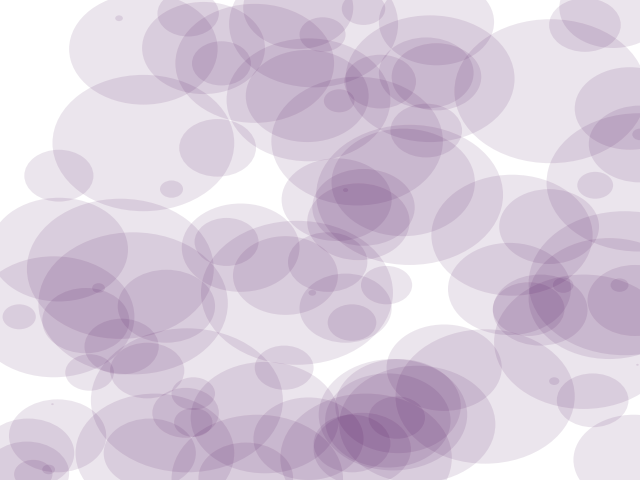
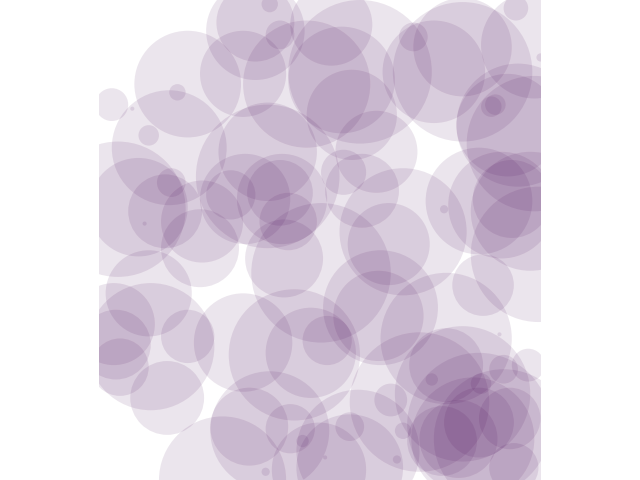
Find difference between both images.

diff --git a/import_image.py b/import_image.py
@@ -7,9 +7,18 @@ import numpy as np
 import random
 
 img_pop = []
-imgArr = np.asarray(Image.open('panda.jpg'))
+imgArr = np.asarray(Image.open('eye.png'))
 WIDTH = len(imgArr)
 HEIGHT = len(imgArr[0])
+
+def fitness(arr, img):
+    total = 0
+
+    for x in range(WIDTH):
+        for y in range(HEIGHT):
+            total = total + abs(arr[x][y] - img[x][y])
+
+    print(total)
 
 def make_circle(x, y, r, op):
     circle = plt.Circle((x, -y), r, color='black', alpha=op)
@@ -19,52 +28,46 @@ def graph_image(circles):
     plt.clf()
     plt.axis((0, WIDTH, 0, -HEIGHT))
     plt.gca().invert_yaxis()
+    #plt.gca().set_aspect('equal', adjustable='box')
+    plt.gca().set_aspect('equal')
     plt.axis('off')
     ax = plt.gca()
 
-    colors = [100]*len(circles)
+    colors = [0]*len(circles)
     c = PatchCollection(circles, alpha=0.1)
     c.set_array(np.array(colors))
     ax.add_collection(c)
     #for c in circles:
     #    ax.add_patch(c)
 
-    #plt.figure(figsize=(5,5))
+    plt.get_current_fig_manager().resize(WIDTH, HEIGHT)
     plt.subplots_adjust(0,0,1,1,0,0)
     plt.ion()
     plt.show()
     plt.pause(.01)
 
-    plt.get_current_fig_manager().resize(500, 500)
     fig = plt.gcf()
     data = np.frombuffer(fig.canvas.tostring_rgb(), dtype=np.uint8)
     print(fig.canvas.get_width_height())
     data = data.reshape(fig.canvas.get_width_height()[::-1] + (3,))
-    img_pop.append(data)
+    print(len(data), len(data[0]))
+    img_pop.append(Image.fromarray(np.uint8(data)))
 
 def init_pop(popSize, individualSize):
     population = []
 
     for j in range(popSize):
         circles = []
+        h = int(HEIGHT*0.15)
 
         for i in range(individualSize):
-            x, y = random.randint(1,WIDTH), random.randint(1, HEIGHT)
-            radius = random.randint(1, HEIGHT*0.15)
+            x, y = random.randint(1, WIDTH), random.randint(1, HEIGHT)
+            radius = random.randint(1, h)
             circles.append(make_circle(x, y, radius, np.random.rand()))
 
         population.append(circles)
 
     return population
-
-def fitness(arr, img):
-    total = 0
-
-    for x in range(480):
-        for y in range(480):
-            total = total + abs(arr[x][y] - img[x][y])
-
-    print(total)
 
 
 individualSize = 100
@@ -80,8 +83,12 @@ for g in range(generations):
     for q in population:
         graph_image(q)
 
-img = Image.fromarray(np.uint8(img_pop[0]))
-img.save('pic.png')
+img = np.asarray(img_pop[0])
+fitness(imgArr, img)
+print(len(img), len(img[0]))
+
+#img = Image.fromarray(np.uint8(img_pop[0]))
+img_pop[0].save('pic.png')
 
 def circleFitness(circleIndividual, img):
     count = 0
